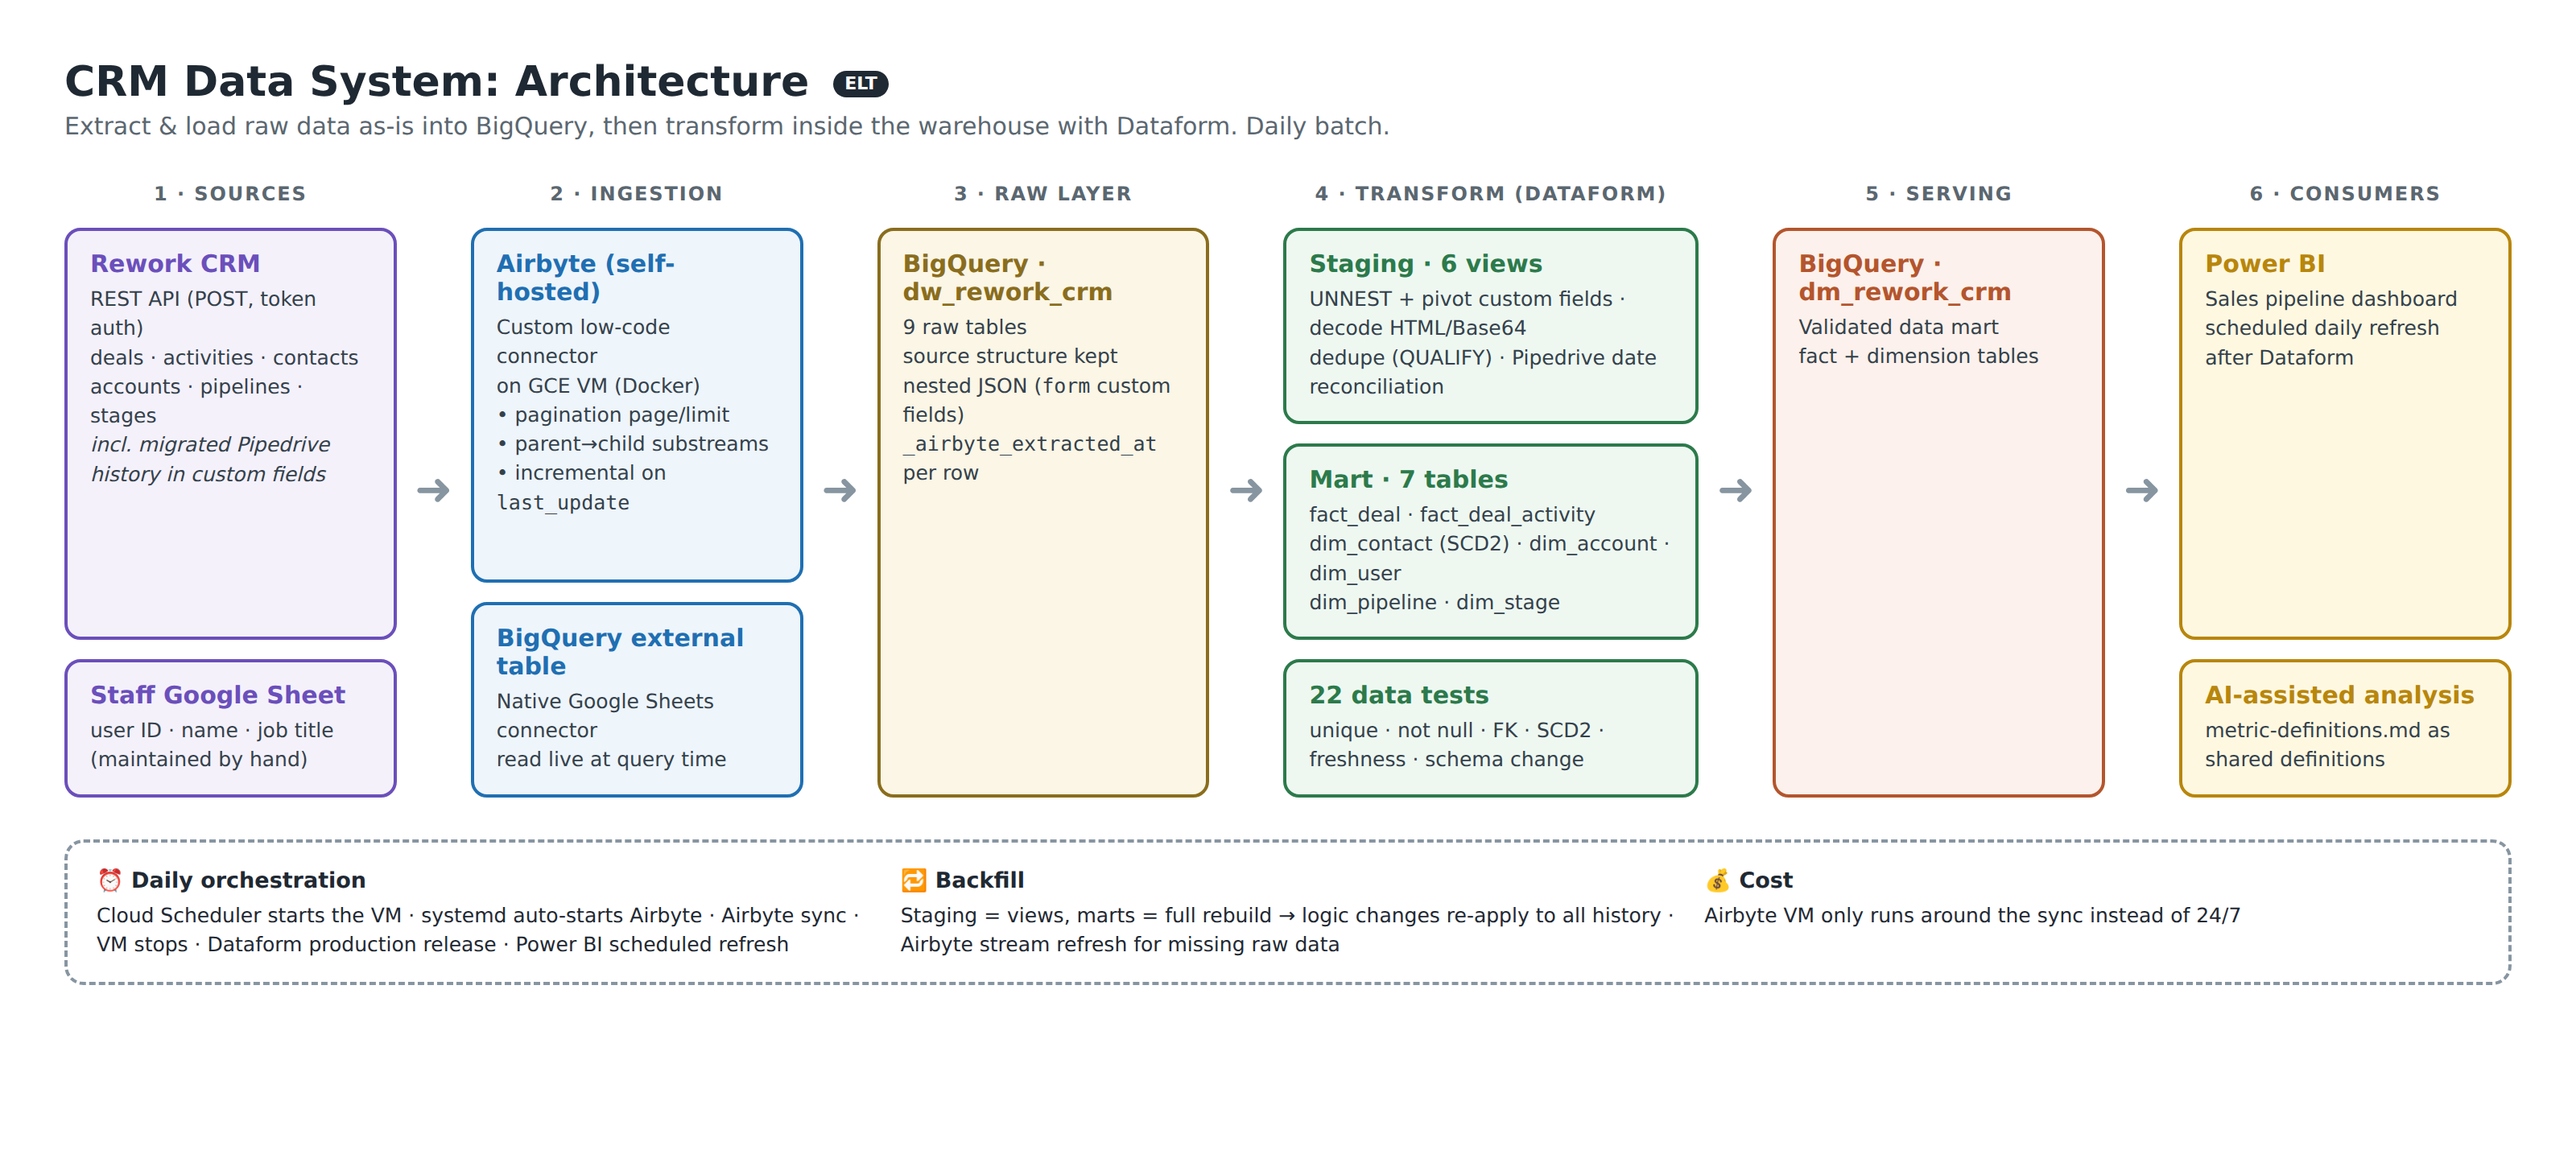
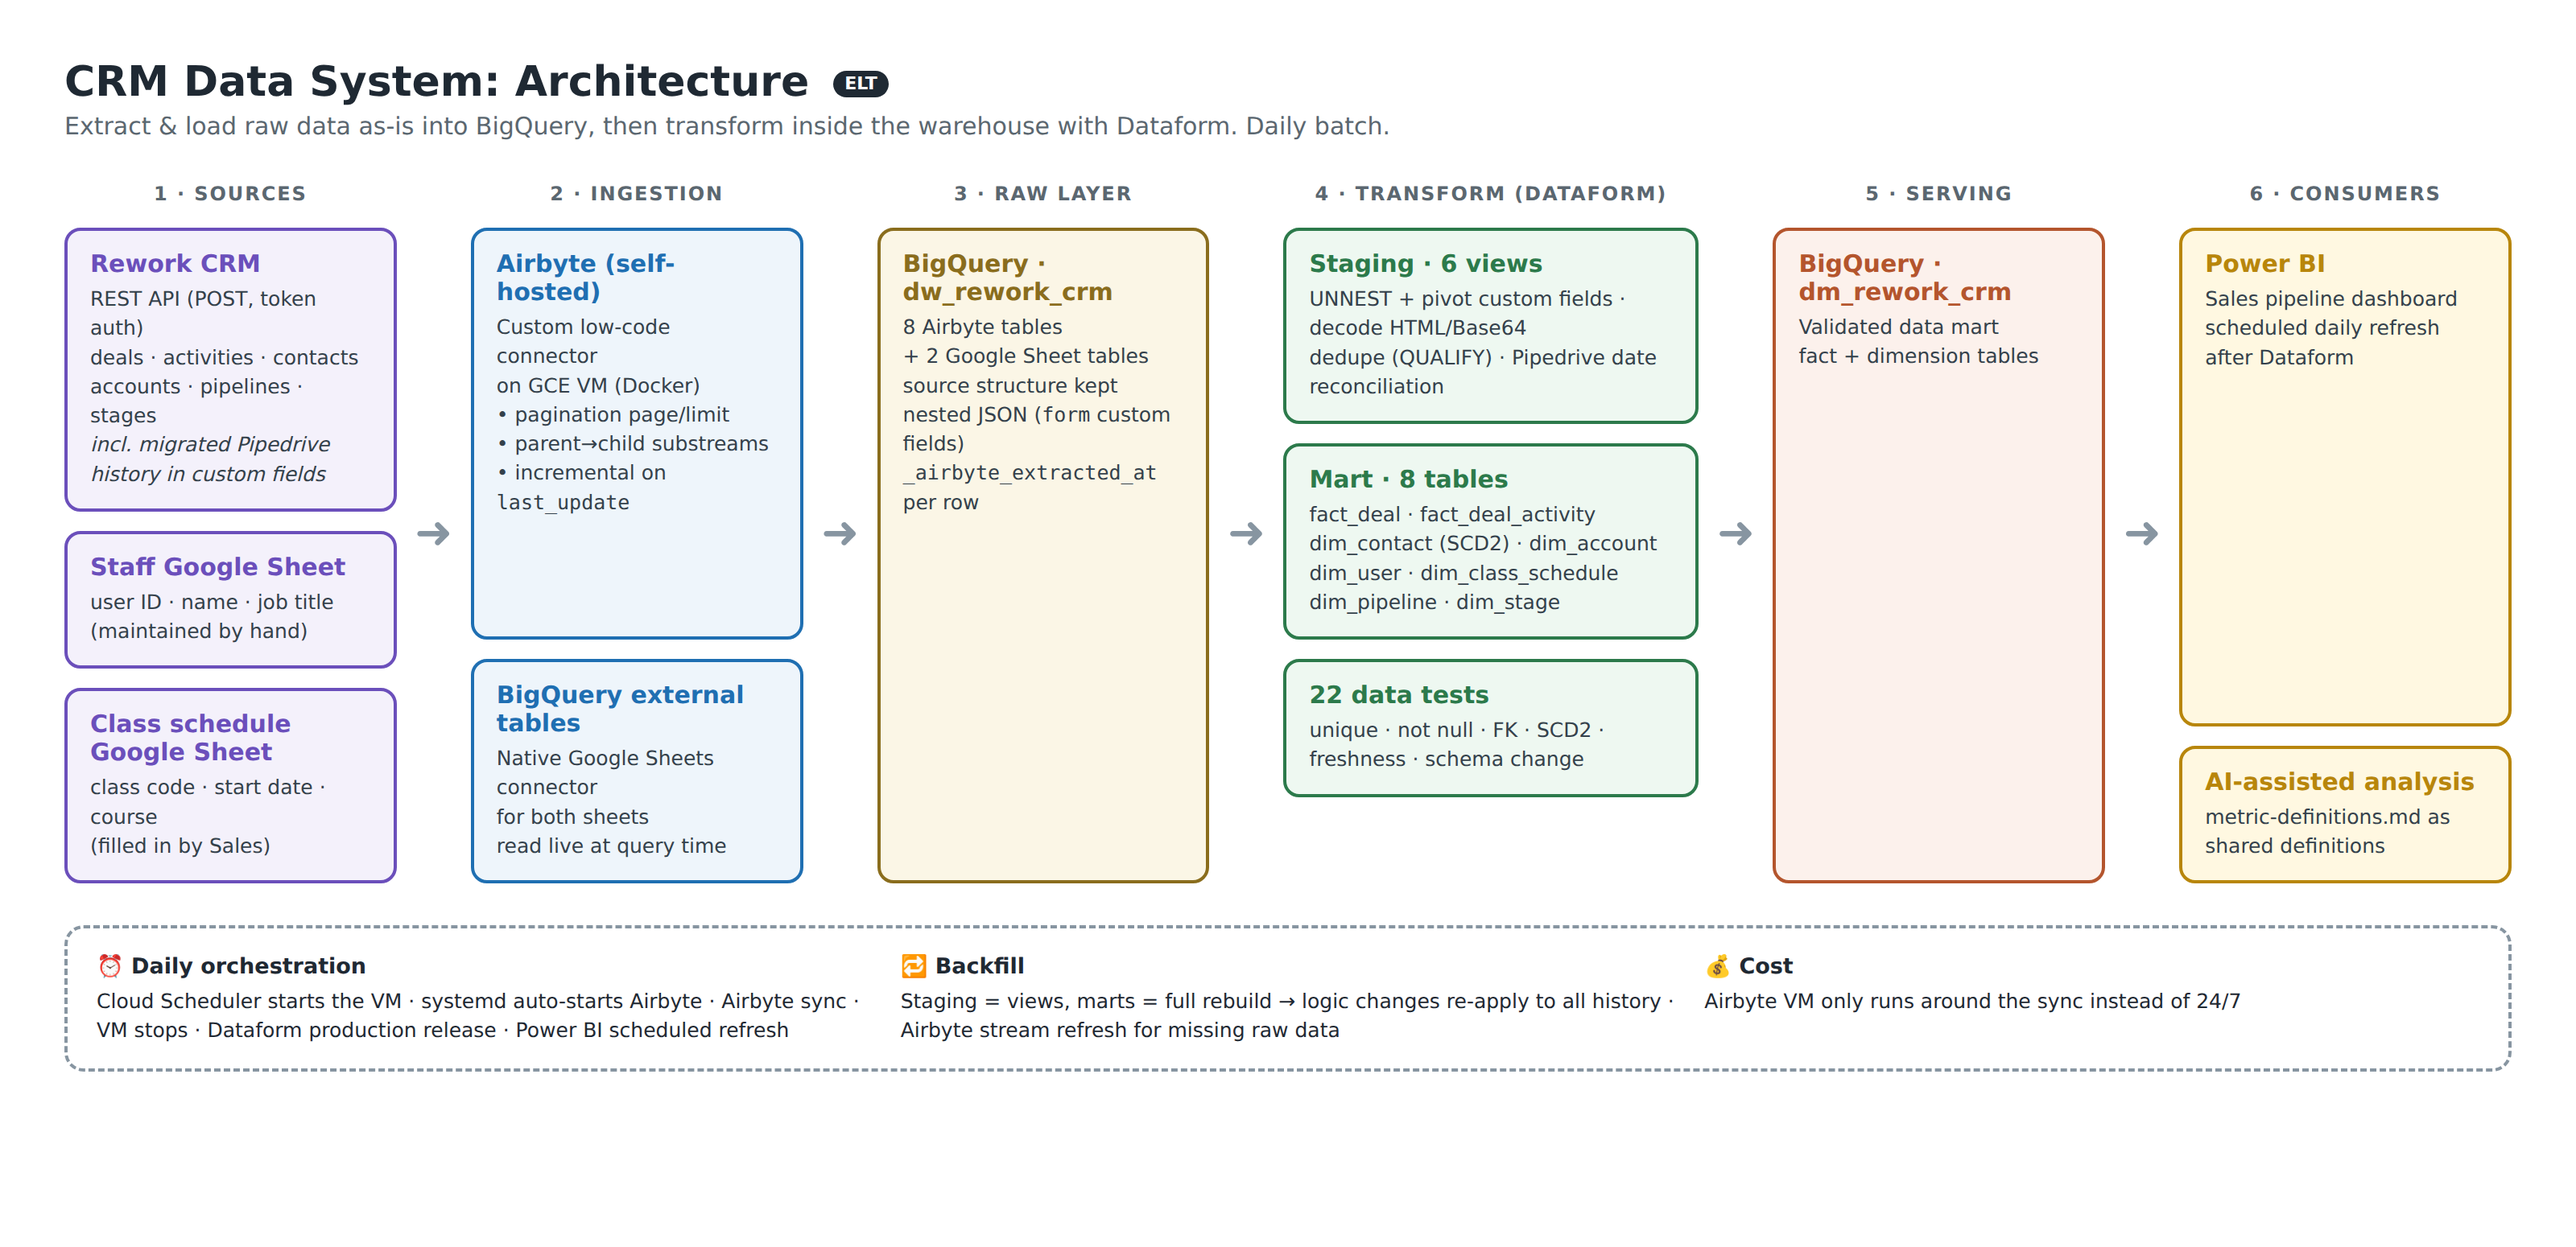
Add class-schedule Google Sheet as 3rd source in diagram and README
Claude-Session: https://claude.ai/code/session_01RJTQ4eRzCiHnHntdpycA9C

diff --git a/docs/architecture.html b/docs/architecture.html
@@ -24,20 +24,21 @@ h1{font-size:26px;margin-bottom:4px}
  <div class="col"><div class="lane">1 · Sources</div>
   <div class="box src grow"><b>Rework CRM</b><span>REST API (POST, token auth)<br>deals · activities · contacts<br>accounts · pipelines · stages<br><i>incl. migrated Pipedrive history in custom fields</i></span></div>
   <div class="box src"><b>Staff Google Sheet</b><span>user ID · name · job title<br>(maintained by hand)</span></div>
+  <div class="box src"><b>Class schedule Google Sheet</b><span>class code · start date · course<br>(filled in by Sales)</span></div>
  </div>
  <div class="arrow">➜</div>
  <div class="col"><div class="lane">2 · Ingestion</div>
   <div class="box ing grow"><b>Airbyte (self-hosted)</b><span>Custom low-code connector<br>on GCE VM (Docker)<br>• pagination page/limit<br>• parent→child substreams<br>• incremental on <code>last_update</code></span></div>
-  <div class="box ing"><b>BigQuery external table</b><span>Native Google Sheets connector<br>read live at query time</span></div>
+  <div class="box ing"><b>BigQuery external tables</b><span>Native Google Sheets connector<br>for both sheets<br>read live at query time</span></div>
  </div>
  <div class="arrow">➜</div>
  <div class="col"><div class="lane">3 · Raw layer</div>
-  <div class="box raw grow"><b>BigQuery · dw_rework_crm</b><span>9 raw tables<br>source structure kept<br>nested JSON (<code>form</code> custom fields)<br><code>_airbyte_extracted_at</code> per row</span></div>
+  <div class="box raw grow"><b>BigQuery · dw_rework_crm</b><span>8 Airbyte tables<br>+ 2 Google Sheet tables<br>source structure kept<br>nested JSON (<code>form</code> custom fields)<br><code>_airbyte_extracted_at</code> per row</span></div>
  </div>
  <div class="arrow">➜</div>
  <div class="col" style="flex:1.25"><div class="lane">4 · Transform (Dataform)</div>
   <div class="box tr"><b>Staging · 6 views</b><span>UNNEST + pivot custom fields · decode HTML/Base64<br>dedupe (QUALIFY) · Pipedrive date reconciliation</span></div>
-  <div class="box tr"><b>Mart · 7 tables</b><span>fact_deal · fact_deal_activity<br>dim_contact (SCD2) · dim_account · dim_user<br>dim_pipeline · dim_stage</span></div>
+  <div class="box tr"><b>Mart · 8 tables</b><span>fact_deal · fact_deal_activity<br>dim_contact (SCD2) · dim_account<br>dim_user · dim_class_schedule<br>dim_pipeline · dim_stage</span></div>
   <div class="box tr"><b>22 data tests</b><span>unique · not null · FK · SCD2 · freshness · schema change</span></div>
  </div>
  <div class="arrow">➜</div>

diff --git a/README.md b/README.md
@@ -67,6 +67,7 @@ Duplicates: each staging model keeps only the latest version per ID (`QUALIFY RO
 | `fact_deal_activity` | 1 row per activity | Notes, calls, emails, changelog |
 | `dim_contact` | 1 row per contact **version** | **SCD Type 2** on `job_title`, `location`. Deals join the version valid at deal creation |
 | `dim_account`, `dim_user`, `dim_pipeline`, `dim_stage` | 1 row per entity | `dim_user` comes from the staff Google Sheet |
+| `dim_class_schedule` | 1 row per class | Class code, start date, course, from the class-schedule Google Sheet |
 
 → [Data Dictionary](docs/data-dictionary.md) (columns) · [Metric Definitions](docs/metric-definitions.md) (metrics)
 
@@ -74,7 +75,7 @@ Duplicates: each staging model keeps only the latest version per ID (`QUALIFY RO
 
 ## Transformation & data quality
 
-Dataform builds **6 staging views → 7 mart tables**. **22 assertions** are defined:
+Dataform builds **6 staging views → 7 mart tables** (`dim_class_schedule` is not yet in this repo). **22 assertions** are defined:
 
 - **Uniqueness / not-null** on every mart key
 - **Referential integrity**: deal → stage, deal → contact version, activity → deal, stage → pipeline
@@ -100,7 +101,7 @@ Runs **daily at 12:00**: VM start → Airbyte sync → VM stop → Dataform prod
 | | |
 |---|---|
 | Sources | **3** (Rework CRM API with 8 streams, staff Google Sheet, class-schedule Google Sheet) |
-| Tables | **9** raw → **6** staging views → **7** mart tables |
+| Tables | **10** raw (8 Airbyte + 2 Google Sheets) → **6** staging views → **8** mart tables |
 | Volume | ~**25.6k** deals · ~**54k** activities · ~**26.7k** contacts (history since 2021, incl. migrated Pipedrive data) |
 | Data tests | **22** assertions defined |
 | Refresh frequency | **Daily at 12:00** (Airbyte → Dataform → Power BI) |
